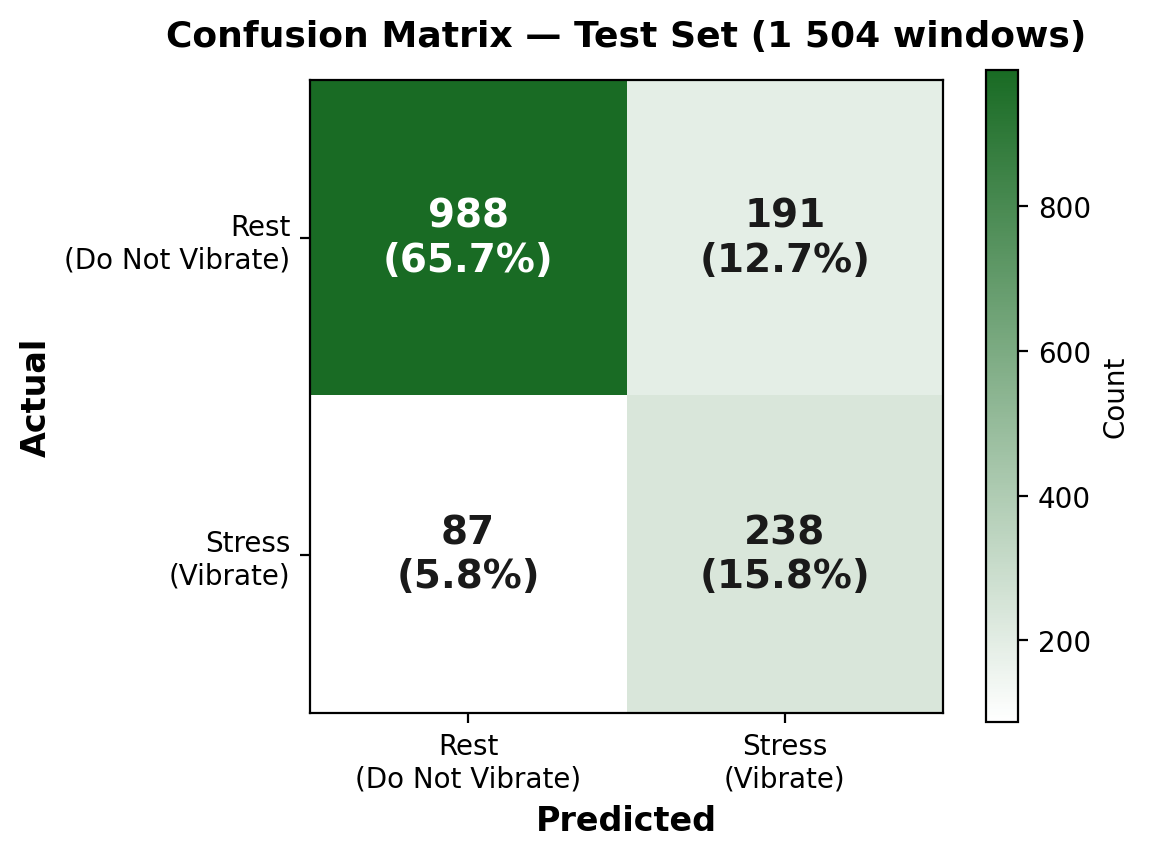
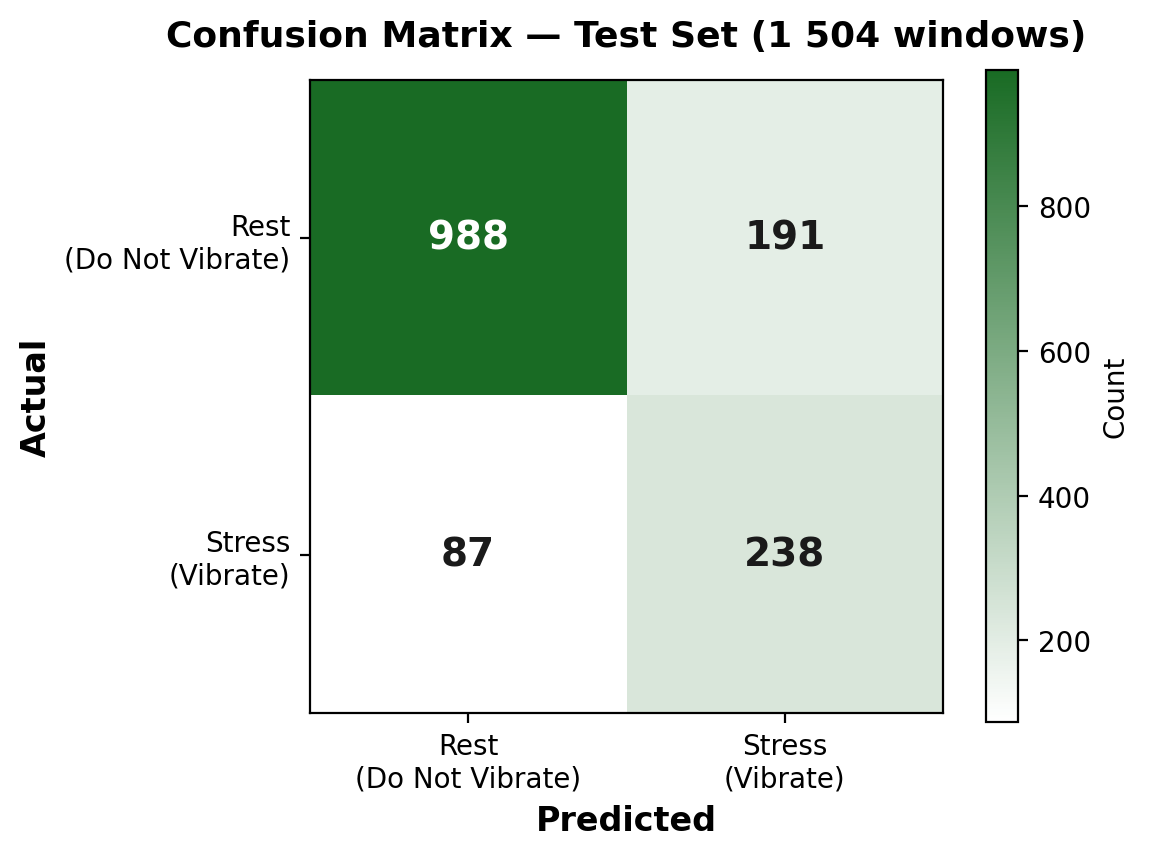
Fixed visualization

diff --git a/plot_confusion_matrix.py b/plot_confusion_matrix.py
@@ -59,7 +59,7 @@ def main():
             pct = count / n_total * 100
             # Use white text on dark cells, dark text on light cells
             color = "white" if count > n_total * 0.25 else "#1a1a1a"
-            ax.text(j, i, f"{count}\n({pct:.1f}%)",
+            ax.text(j, i, f"{count}",
                     ha="center", va="center", fontsize=14, fontweight="bold",
                     color=color)
 
